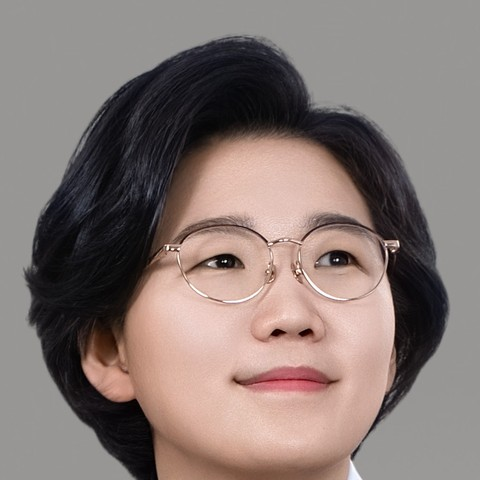
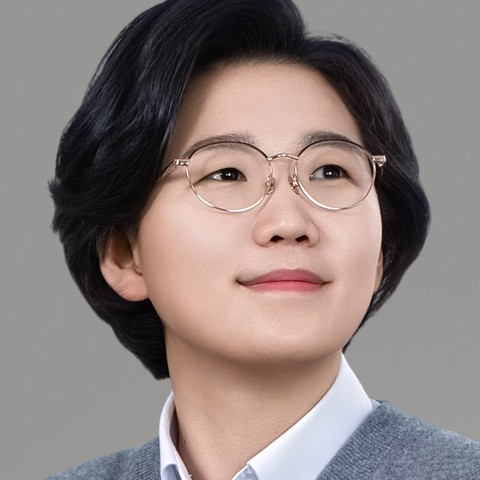
Add files via upload

diff --git a/index.html b/index.html
@@ -436,6 +436,14 @@ footer .disc{font-size:.74rem;color:#7e9bc4;max-width:520px;margin-top:6px}
   .intro-greet{bottom:108px;max-width:230px;font-size:.92rem;padding:14px 34px 14px 16px}
   .bot-fab{padding:11px 14px;font-size:.86rem}
   .summary-demo .sd-grid{grid-template-columns:repeat(2,1fr)}
+  .dgrid{grid-template-columns:repeat(2,1fr)!important}
+  .kpi-note{font-size:.75rem;line-height:1.5}
+  .src-note{font-size:.8rem;line-height:1.62}
+  .summary-text{font-size:.92rem;line-height:1.72}
+  .tbl-scroll{overflow-x:auto;-webkit-overflow-scrolling:touch}
+  #rankTable,#cmpTable{font-size:.82rem}
+  #cmpTable td,#cmpTable th{padding-left:6px;padding-right:6px}
+  .cmp-rank{font-size:.66rem}
 }
 .kbm-pub p{font-size:.84rem;color:#46566f;line-height:1.6;margin-top:5px}
 .kbm-pub .meta{font-size:.76rem;color:#94a3b8;margin-top:7px}
@@ -558,7 +566,8 @@ footer .disc{font-size:.74rem;color:#7e9bc4;max-width:520px;margin-top:6px}
     <b>📌 데이터 출처 안내</b> · 전국 합계(총예산·재정자립도)는 <b>지방재정365(lofin365.go.kr) 공시</b> 기준입니다.
     개별 지자체의 세부 수치는 <b>실데이터 연동(서버 인증키 설정) 시 공식 공시값으로 자동 대체</b>되며, 연동 전에는 공시 통계 기반 <b>참고용 추정(시연)값</b>입니다.
     공식 결산값은 <a href="https://lofin365.go.kr" target="_blank" rel="noopener">지방재정365</a>·<a href="https://lofin.mois.go.kr" target="_blank" rel="noopener">지방재정통합공시</a>에서 확인하세요.
-    개별 지자체의 <b>금고 약정이자율·종합청렴도</b> 등은 공식적으로 개별 공개되지 않아, 검증된 공식 수치만 표시합니다.
+    <b>종합청렴도</b>는 국민권익위원회 2025년 평가(공공데이터포털 '기관별 청렴도 평가 등급', 243개 지자체 전수) <b>실데이터</b>로 표시합니다.
+    <b>금고 약정이자율</b>은 행정안전부가 2025년 12월부터 누리집에 공개 예정이라(2025.10 발표), 공식 표가 나오면 연동합니다 — 그 전까지 임의 수치를 넣지 않습니다.
   </div>
 
   <!-- 컨트롤 -->
@@ -1269,6 +1278,8 @@ function fundFlow(R){
     {stage:4,from:'사업주체',to:'계약자(나라장터)',amt:Math.round(total*0.62)}
   ];
 }
+/* 종합청렴도 등급 — 국민권익위원회 2025년 평가(공공데이터포털 '기관별 청렴도 평가 등급', 243개 지자체 전수) 실데이터. 1등급=최상위. 미평가 지자체는 없음(null). */
+const INTEGRITY_2025={"강원특별자치도":3,"강원특별자치도 강릉시":3,"강원특별자치도 고성군":3,"강원특별자치도 동해시":4,"강원특별자치도 삼척시":4,"강원특별자치도 속초시":3,"강원특별자치도 양구군":3,"강원특별자치도 양양군":4,"강원특별자치도 영월군":3,"강원특별자치도 원주시":3,"강원특별자치도 인제군":3,"강원특별자치도 정선군":4,"강원특별자치도 철원군":3,"강원특별자치도 춘천시":2,"강원특별자치도 태백시":5,"강원특별자치도 평창군":4,"강원특별자치도 홍천군":4,"강원특별자치도 화천군":4,"강원특별자치도 횡성군":4,"경기도":3,"경기도 가평군":2,"경기도 고양시":3,"경기도 과천시":3,"경기도 광명시":2,"경기도 광주시":5,"경기도 구리시":2,"경기도 군포시":5,"경기도 김포시":3,"경기도 남양주시":2,"경기도 동두천시":4,"경기도 부천시":1,"경기도 성남시":2,"경기도 수원시":2,"경기도 시흥시":2,"경기도 안산시":3,"경기도 안성시":3,"경기도 안양시":3,"경기도 양주시":3,"경기도 양평군":3,"경기도 여주시":3,"경기도 연천군":3,"경기도 오산시":3,"경기도 용인시":2,"경기도 의왕시":3,"경기도 의정부시":2,"경기도 이천시":5,"경기도 파주시":2,"경기도 평택시":2,"경기도 포천시":4,"경기도 하남시":3,"경기도 화성시":2,"경상남도":2,"경상남도 거제시":4,"경상남도 거창군":3,"경상남도 고성군":2,"경상남도 김해시":1,"경상남도 남해군":2,"경상남도 밀양시":2,"경상남도 사천시":2,"경상남도 양산시":2,"경상남도 의령군":2,"경상남도 진주시":1,"경상남도 창녕군":1,"경상남도 창원시":1,"경상남도 통영시":4,"경상남도 함안군":3,"경상남도 함양군":4,"경상남도 합천군":3,"경상북도":1,"경상북도 경산시":3,"경상북도 경주시":3,"경상북도 고령군":3,"경상북도 구미시":2,"경상북도 김천시":3,"경상북도 문경시":4,"경상북도 봉화군":4,"경상북도 상주시":3,"경상북도 성주군":2,"경상북도 영주시":4,"경상북도 영천시":2,"경상북도 예천군":2,"경상북도 울릉군":5,"경상북도 울진군":3,"경상북도 청도군":5,"경상북도 칠곡군":2,"경상북도 포항시":4,"광주광역시":2,"광주광역시 광산구":4,"광주광역시 남구":3,"광주광역시 동구":3,"광주광역시 북구":2,"광주광역시 서구":3,"대구광역시":3,"대구광역시 군위군":2,"대구광역시 남구":3,"대구광역시 달서구":3,"대구광역시 달성군":1,"대구광역시 동구":2,"대구광역시 북구":2,"대구광역시 서구":2,"대구광역시 수성구":2,"대구광역시 중구":4,"대전광역시":4,"대전광역시 대덕구":4,"대전광역시 동구":3,"대전광역시 서구":2,"대전광역시 유성구":2,"대전광역시 중구":2,"부산광역시":3,"부산광역시 강서구":2,"부산광역시 금정구":3,"부산광역시 기장군":2,"부산광역시 남구":4,"부산광역시 동구":4,"부산광역시 동래구":3,"부산광역시 부산진구":2,"부산광역시 북구":3,"부산광역시 사상구":4,"부산광역시 사하구":3,"부산광역시 서구":4,"부산광역시 수영구":2,"부산광역시 연제구":2,"부산광역시 영도구":3,"부산광역시 중구":4,"부산광역시 해운대구":3,"서울특별시":2,"서울특별시 강남구":2,"서울특별시 강동구":3,"서울특별시 강북구":3,"서울특별시 강서구":3,"서울특별시 관악구":2,"서울특별시 광진구":1,"서울특별시 구로구":2,"서울특별시 금천구":2,"서울특별시 노원구":3,"서울특별시 도봉구":4,"서울특별시 동대문구":4,"서울특별시 동작구":4,"서울특별시 마포구":4,"서울특별시 서대문구":3,"서울특별시 서초구":3,"서울특별시 성동구":2,"서울특별시 성북구":3,"서울특별시 송파구":2,"서울특별시 양천구":2,"서울특별시 영등포구":2,"서울특별시 용산구":4,"서울특별시 은평구":4,"서울특별시 종로구":3,"서울특별시 중구":2,"서울특별시 중랑구":3,"세종특별자치시":4,"울산광역시":3,"울산광역시 남구":4,"울산광역시 동구":3,"울산광역시 북구":3,"울산광역시 중구":2,"인천광역시":4,"인천광역시 강화군":4,"인천광역시 계양구":4,"인천광역시 남동구":4,"인천광역시 동구":3,"인천광역시 미추홀구":4,"인천광역시 부평구":2,"인천광역시 서구":4,"인천광역시 연수구":3,"인천광역시 옹진군":4,"인천광역시 중구":5,"전라남도":4,"전라남도 강진군":3,"전라남도 고흥군":3,"전라남도 곡성군":3,"전라남도 광양시":4,"전라남도 구례군":4,"전라남도 나주시":4,"전라남도 담양군":2,"전라남도 목포시":3,"전라남도 무안군":3,"전라남도 보성군":1,"전라남도 순천시":3,"전라남도 신안군":4,"전라남도 여수시":5,"전라남도 영광군":3,"전라남도 영암군":4,"전라남도 완도군":4,"전라남도 장성군":3,"전라남도 장흥군":3,"전라남도 진도군":2,"전라남도 함평군":3,"전라남도 해남군":1,"전라남도 화순군":4,"전북특별자치도":2,"전북특별자치도 고창군":2,"전북특별자치도 군산시":2,"전북특별자치도 김제시":3,"전북특별자치도 남원시":5,"전북특별자치도 무주군":4,"전북특별자치도 부안군":3,"전북특별자치도 순창군":3,"전북특별자치도 완주군":2,"전북특별자치도 익산시":5,"전북특별자치도 임실군":3,"전북특별자치도 장수군":1,"전북특별자치도 전주시":2,"전북특별자치도 정읍시":2,"전북특별자치도 진안군":4,"제주특별자치도":3,"충청남도":2,"충청남도 계룡시":2,"충청남도 공주시":3,"충청남도 금산군":5,"충청남도 논산시":3,"충청남도 당진시":3,"충청남도 보령시":3,"충청남도 부여군":2,"충청남도 서산시":2,"충청남도 서천군":3,"충청남도 아산시":4,"충청남도 예산군":2,"충청남도 천안시":3,"충청남도 청양군":3,"충청남도 태안군":5,"충청남도 홍성군":4,"충청북도":4,"충청북도 괴산군":3,"충청북도 단양군":3,"충청북도 보은군":3,"충청북도 영동군":4,"충청북도 옥천군":2,"충청북도 음성군":1,"충청북도 제천시":3,"충청북도 증평군":4,"충청북도 진천군":3,"충청북도 청주시":3,"충청북도 충주시":3};
 function genRegion(sidoObj, name, isSido){
   const sido = sidoObj.nm;
   const key = isSido ? sido : sido+" "+name;
@@ -1375,7 +1386,7 @@ function genRegion(sidoObj, name, isSido){
   // 인구소멸위험지수 (20-39세 여성 ÷ 65세+); 낮을수록 위험
   let extIndex=+clamp(type==="군"?0.10+r()*0.42 : type==="시"?0.34+r()*0.6 : type==="구"?0.5+r()*0.8 : 0.7+r()*0.7, 0.08,1.6).toFixed(2);
   // 종합청렴도(국민권익위 평가 등급 1~5, 1=최우수) · 축제·행사성 경비 비중(%)
-  const integrity = clamp(Math.round(2.3+(r()-0.5)*3.4),1,5);
+  const integrity = (function(){ const k=isSido?sido:sido+" "+name; return (INTEGRITY_2025[k]!=null)?INTEGRITY_2025[k]:null; })();
   let festivalRatio=+clamp(type==="군"?1.6+r()*2.7 : type==="시"?1.0+r()*2.0 : type==="구"?0.8+r()*1.7 : 0.9+r()*1.4, 0.4,4.8).toFixed(1);
   const festivalCost=Math.round(budget*festivalRatio/100);
   // 주요 사업 top10
@@ -1420,7 +1431,7 @@ function buildNational(){
     perCapitaBudget:+(budget*10000/NATIONAL.population).toFixed(0),
     bankName:"전국 평균",bankRate:2.52,avgDeposit:Math.round(budget*0.11),interestIncome:Math.round(budget*0.11*2.52/100),
     accounts:{일반회계:Math.round(budget*0.70),특별회계:Math.round(budget*0.24),기금:Math.round(budget*0.06)},
-    integrity:3,festivalRatio:1.8,festivalCost:Math.round(budget*1.8/100),
+    integrity:null,festivalRatio:1.8,festivalCost:Math.round(budget*1.8/100),
     households:Math.round(NATIONAL.population/2.3),elderlyRatio:19.5,youthRatio:24.3,popChange:-0.12,extIndex:0.71,
     projects:genProjects("전국",budget,31),
     subScores:{sSelf,sAuto,sDebt,sExec,sBal,sSuui}};
@@ -1544,7 +1555,8 @@ function renderKPI(R){
     {l:"채무비율",ic:"📉",v:R.debtRatio+"<span class='unit'> %</span>",sub:R.debtRatio<25?"<span class='up'>위기단계 아님</span>":"<span class='down'>주의/심각 구간</span>",w:clamp(R.debtRatio/45*100,2,100),c:R.debtRatio<15?PAL.green:R.debtRatio<25?PAL.amber:PAL.red,tip:"빚 잔액 ÷ 예산. 25% 주의·40% 심각."},
     {l:"세출 집행률",ic:"📊",v:R.execRate+"<span class='unit'> %</span>",sub:R.execRate>=88?"<span class='up'>정상 집행</span>":"<span class='down'>집행 부진</span>",w:R.execRate,c:R.execRate>=88?PAL.green:R.execRate>=80?PAL.amber:PAL.red,tip:"집행액 ÷ 최종예산. 너무 낮거나 연말 급증은 신호."},
     {l:"수의계약 비중",ic:"📝",v:R.suuiRatio+"<span class='unit'> %</span>",sub:R.suuiRatio<30?"<span class='up'>경쟁계약 중심</span>":"<span class='down'>경쟁성 점검 필요</span>",w:R.suuiRatio,c:R.suuiRatio<30?PAL.green:R.suuiRatio<45?PAL.amber:PAL.red,tip:"경쟁 없이 맺는 계약 비율. 높을수록 감시 필요."},
-    {l:"지자체 금고 이자율",ic:"💴",v:"<span style='font-size:1.05rem;color:#475569'>공식 비공개</span>",sub:`개별 약정이자율은 공개 의무가 없어 비공개`,w:0,c:PAL.blue,note:"💡 지자체가 세금을 맡긴 금고(은행)의 약정 이자율은 시민에게 개별 공개되지 않습니다. 이자율이 낮을수록 받을 수 있었던 이자 수입이 사라집니다 — ‘대한민국 재정 365’는 이 정보의 공개를 요구합니다.",tip:"개별 지자체의 금고 약정이자율은 현재 공식적으로 공개되지 않습니다. 공식 데이터가 공개되면 연동해 표시합니다."},
+    {l:"종합청렴도",ic:"🛡️",v:R.integrity?R.integrity+"<span class='unit'> 등급</span>":"<span style='font-size:1.02rem;color:#64748b'>미평가</span>",sub:R.integrity?`국민권익위 2025 평가 · ${['','매우 우수(1등급)','우수(2등급)','보통(3등급)','미흡(4등급)','매우 미흡(5등급)'][R.integrity]}`:"권익위 평가 대상 아님",w:R.integrity?clamp((6-R.integrity)/5*100,8,100):0,c:!R.integrity?PAL.slate:R.integrity<=2?PAL.green:R.integrity===3?PAL.amber:PAL.red,tip:"국민권익위원회 종합청렴도 평가 등급(2025년 평가, 1등급이 가장 우수). 출처: 공공데이터포털 '기관별 청렴도 평가 등급'."},
+    {l:"지자체 금고 이자율",ic:"💴",v:"<span style='font-size:1.05rem;color:#475569'>공개 추진 중</span>",sub:`행안부 2025.12~ 누리집 공개 예정`,w:0,c:PAL.blue,note:"💡 지자체가 세금을 맡긴 금고(은행)의 약정 이자율은 그동안 공개되지 않았습니다. 행정안전부가 지방회계법 시행령 개정으로 <b>2025년 12월부터 전국 지자체 금고 이자율을 누리집에 공개</b>합니다(2025.10 발표). 공식 표가 공개되면 이 자리에 실제 값을 연동하겠습니다.",tip:"개별 지자체 금고 약정이자율은 행정안전부가 2025년 12월부터 단계적으로 공개합니다. 출처: 행정안전부 2025.10.2 보도자료. 공식 표가 나오면 실데이터로 연동합니다."},
     {l:"종합 건강점수",ic:"🩺",v:R.score+"<span class='unit'> 점</span>",sub:`${R.grade}등급 · 전국 ${rankOf(R,'score')}위`,w:R.score,c:gradeStyle(R.grade)[0].includes('e11d48')?PAL.red:gradeStyle(R.grade)[0].includes('f59e0b')||gradeStyle(R.grade)[0].includes('fb923c')?PAL.amber:PAL.green,tip:"6대 지표를 가중평균한 자체 종합 점수."}
   ];
   document.getElementById('kpiGrid').innerHTML=cards.map(c=>`
@@ -1713,11 +1725,13 @@ const COMPARE_METRICS=[
   {k:'debtRatio',l:'채무비율',u:'%',better:'low',ic:'📉'},
   {k:'execRate',l:'세출 집행률',u:'%',better:'high',ic:'📊'},
   {k:'suuiRatio',l:'수의계약 비중',u:'%',better:'low',ic:'📝'},
+  {k:'integrity',l:'종합청렴도',u:'',better:'low',ic:'🛡️',fmt:v=>v==null?'미평가':v+'등급'},
   {k:'extIndex',l:'인구소멸지수',u:'',better:'high',ic:'🧬'},
   {k:'score',l:'종합 건강점수',u:'점',better:'high',ic:'🩺'}
 ];
 function rankByMetric(R,k,better){
-  const arr=STATE.model.slice().sort((a,b)=> better==='low'? a[k]-b[k] : b[k]-a[k]);
+  if(R[k]==null) return null;
+  const arr=STATE.model.filter(x=>x[k]!=null).sort((a,b)=> better==='low'? a[k]-b[k] : b[k]-a[k]);
   const i=arr.findIndex(x=>x.key===R.key); return i<0?null:i+1;
 }
 function pctTop(rank,total){return Math.max(1,Math.round(rank/total*100));}
@@ -1771,9 +1785,9 @@ function renderCompare(){
   document.getElementById('cmpHB').textContent='🔴 '+B.display;
   document.getElementById('cmpBody').innerHTML=COMPARE_METRICS.map((m,i)=>{
     const f=m.fmt||(v=>v), av=A[m.k], bv=B[m.k], nv=N[m.k];
-    const aRank=A.key==='전국'?null:rankByMetric(A,m.k,m.better);
-    const bRank=B.key==='전국'?null:rankByMetric(B,m.k,m.better);
-    const w=(m.better==='neutral'||av===bv)?0:(m.better==='low'?(av<bv?-1:1):(av>bv?-1:1));
+    const aRank=(A.key==='전국'||av==null)?null:rankByMetric(A,m.k,m.better);
+    const bRank=(B.key==='전국'||bv==null)?null:rankByMetric(B,m.k,m.better);
+    const w=(av==null||bv==null||m.better==='neutral'||av===bv)?0:(m.better==='low'?(av<bv?-1:1):(av>bv?-1:1));
     const cell=(v,rank,win)=>`<td class="${win?'cmp-win':''}"><b>${f(v)}${m.u}</b>${rank?`<div class="cmp-rank">전국 ${rank}위 · 상위 ${pctTop(rank,total)}%</div>`:''}</td>`;
     const winTxt=m.better==='neutral'?'<span class="muted">참고</span>':(av===bv?'무승부':(w===-1?A.name:B.name));
     return `<tr><td style="font-weight:800;color:var(--navy2)">${m.l}</td>${cell(av,aRank,w===-1)}${cell(bv,bRank,w===1)}<td class="muted">${f(nv)}${m.u}</td><td style="font-weight:800;color:${w?'#15803d':'#94a3b8'}">${w?'✓ '+winTxt:winTxt}</td></tr>`;
@@ -1861,7 +1875,7 @@ function printReport(R){
   '<div>총예산<b>'+won억(R.budget)+'</b></div><div>주민 1인당<b>'+fmt(R.perCapitaBudget)+'만원</b></div>'+
   '<div>재정자립도<b>'+R.selfReliance+'%</b></div><div>재정자주도<b>'+R.autonomy+'%</b></div>'+
   '<div>채무비율<b>'+R.debtRatio+'%</b></div><div>세출 집행률<b>'+R.execRate+'%</b></div>'+
-  '<div>수의계약 비중<b>'+R.suuiRatio+'%</b></div><div>금고 이자율<b>공식 비공개</b></div></div>'+
+  '<div>수의계약 비중<b>'+R.suuiRatio+'%</b></div><div>종합청렴도<b>'+(R.integrity?R.integrity+'등급':'미평가')+'</b></div></div>'+
   '<h2>2. 회계별 예산현황</h2><table><tr><th>구분</th><th class=r>금액</th><th class=r>비중</th></tr>'+
   '<tr><td>일반회계</td><td class=r>'+won억(R.accounts.일반회계)+'</td><td class=r>'+(R.accounts.일반회계/R.budget*100).toFixed(1)+'%</td></tr>'+
   '<tr><td>특별회계</td><td class=r>'+won억(R.accounts.특별회계)+'</td><td class=r>'+(R.accounts.특별회계/R.budget*100).toFixed(1)+'%</td></tr>'+
@@ -1986,7 +2000,8 @@ function renderDetail(R){
        <div class="dstat"><div class="l">재정자립도</div><div class="v mono">${R.selfReliance}%</div></div>
        <div class="dstat"><div class="l">재정자주도</div><div class="v mono">${R.autonomy}%</div></div>
        <div class="dstat"><div class="l">채무비율</div><div class="v mono">${R.debtRatio}%</div></div>
-       <div class="dstat"><div class="l">금고 이자율</div><div class="v mono" style="font-size:1rem;color:#475569">공식 비공개</div><div class="s muted">개별 약정이자율은 미공개</div></div>
+       <div class="dstat"><div class="l">종합청렴도</div><div class="v mono"${R.integrity?` style="color:${R.integrity<=2?'#16a34a':R.integrity===3?'#b45309':'#e11d48'}"`:''}>${R.integrity?R.integrity+'등급':'<span style="font-size:.95rem;color:#64748b">미평가</span>'}</div><div class="s muted">${R.integrity?(['','매우 우수','우수','보통','미흡','매우 미흡'][R.integrity]+' · 국민권익위 2025'):'권익위 평가 대상 아님'}</div></div>
+       <div class="dstat"><div class="l">금고 이자율</div><div class="v mono" style="font-size:.95rem;color:#475569">공개 추진 중</div><div class="s muted">행안부 2025.12~ 누리집 공개</div></div>
      </div></div>
    <div class="dblock"><h3>📈 분기별 집행 현황 ${blockStatus()}</h3>
      <div class="desc">분기별 집행액과 누적 집행률 (연간 최종 집행률 ${R.execRate}%)</div>
@@ -2262,7 +2277,7 @@ function botEsc(s){return String(s).replace(/[&<>]/g,c=>({'&':'&amp;','<':'&lt;'
 function botContext(){
   const R=STATE.region||STATE.national;
   let c=`현재 선택 지역=${R?R.display:'전국'}`;
-  if(R) c+=` | 재정자립도 ${R.selfReliance}% · 재정자주도 ${R.autonomy}% · 채무비율 ${R.debtRatio}% · 세출집행률 ${R.execRate}% · 수의계약 ${R.suuiRatio}% · 1인당예산 ${R.perCapitaBudget}만원 · 종합등급 ${R.grade}(${R.score}점)`;
+  if(R) c+=` | 재정자립도 ${R.selfReliance}% · 재정자주도 ${R.autonomy}% · 채무비율 ${R.debtRatio}% · 세출집행률 ${R.execRate}% · 수의계약 ${R.suuiRatio}% · 종합청렴도 ${R.integrity?R.integrity+'등급(권익위2025)':'미평가'} · 1인당예산 ${R.perCapitaBudget}만원 · 종합등급 ${R.grade}(${R.score}점)`;
   if(R&&R.key!=='전국'){ const fl=genRiskFlags(R).map(f=>RISKFLAG_DEF[f.type][0]); if(fl.length) c+=` | 위험플래그: ${fl.join(', ')}`; }
   c+=` || 용어집: `+GLOSSARY.map(g=>g.t+'='+g.d).join(' / ');
   return c.slice(0,3000);